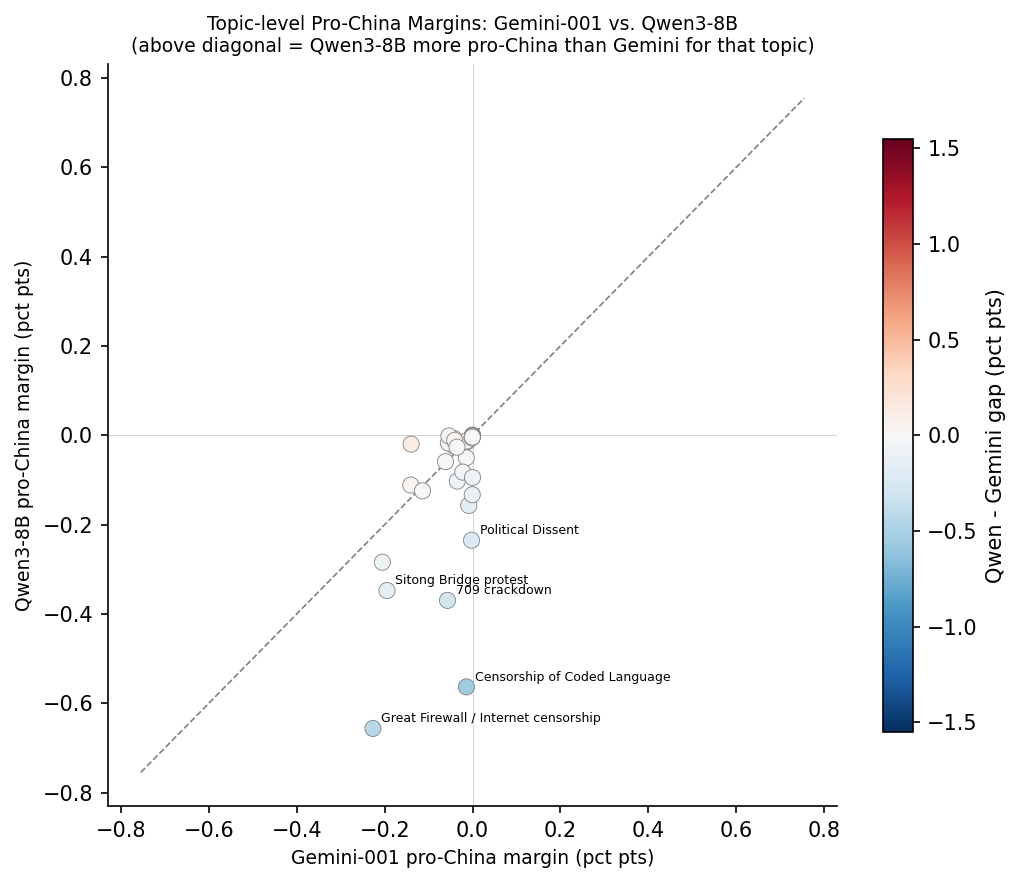
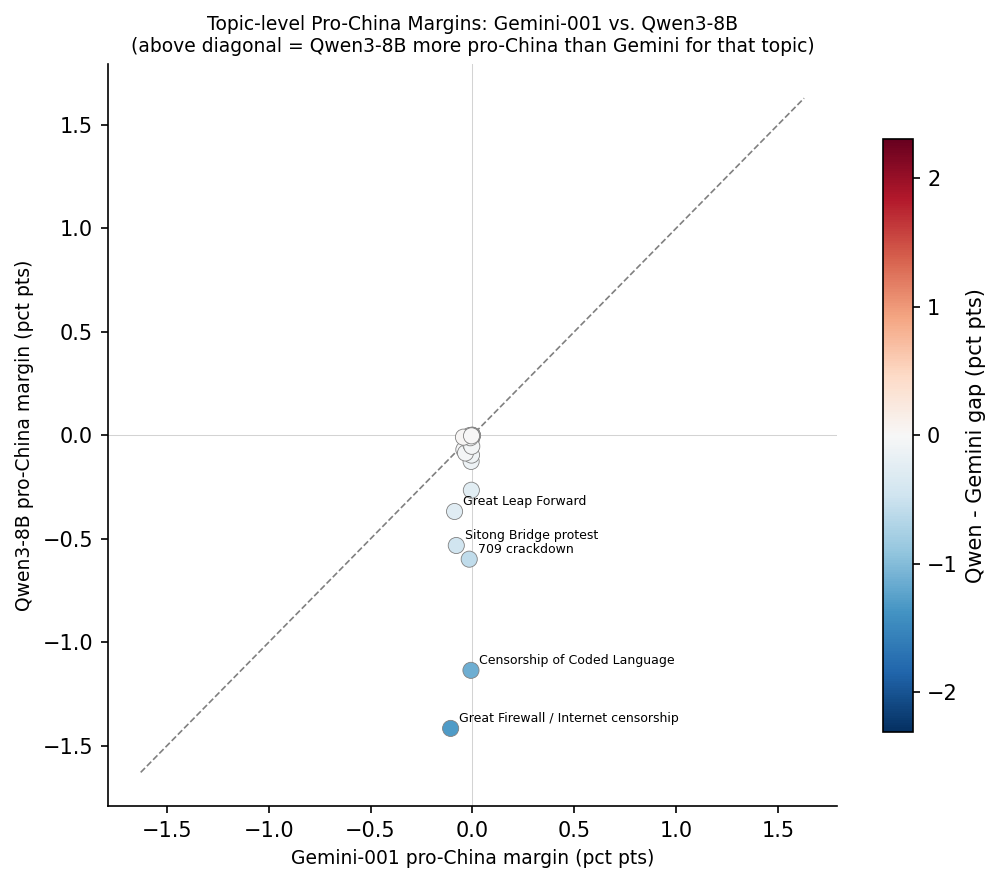
change exhaustive distance search approach
- add per framing pivot tables
- add plot files
- add new reference distribution queries

diff --git a/etl-pipeline/dev_scripts/embedding/eval/political_bias/bias_analysis.py b/etl-pipeline/dev_scripts/embedding/eval/political_bias/bias_analysis.py
@@ -62,7 +62,7 @@ from utils.load_env import load_env
 load_env("config/.env.production")
 
 from vector_indexing.core.config import get_index_config  # noqa: E402
-from vector_indexing.utils.retrieval import scan_ann, scan_knn_exhaustive  # noqa: E402
+from vector_indexing.utils.retrieval import scan_ann, scan_knn  # noqa: E402
 
 # ---------------------------------------------------------------------------
 # Constants
@@ -82,7 +82,9 @@ QWEN8B_INDEX = "vra_test-eval300-qwen3_embedding_8b"  # pragma: allowlist secret
 # Paths
 THIS_DIR = Path(__file__).resolve().parent
 BIAS_DATA_PATH = THIS_DIR / "bias_test_data.yaml"
-REF_QUERIES_PATH = THIS_DIR.parent / "ranking_task_queries.txt"
+# REF_QUERIES_PATH = THIS_DIR.parent / "ranking_task_queries.txt"
+# REF_QUERIES_PATH = THIS_DIR / "neutral_control_queries.txt"
+REF_QUERIES_PATH = THIS_DIR / "neutral_control_queries_close.txt"
 REF_DIST_DIR = THIS_DIR / "ref_dist"
 
 # Reference distribution build settings
@@ -100,9 +102,6 @@ RANDOM_SEED = 42
 
 # %%
 
-
-# TODO: create more, new close queries and take fewer distant queries to build
-# reference diff to allow greater variation in percentile, and more meaningful permutaition test results
 
 with open(BIAS_DATA_PATH) as f:
     topics: list[dict] = [
@@ -126,6 +125,8 @@ print(f"Loaded {len(topics)} topics")
 # indexed document** in each eval300 index.
 
 # Results are serialized to `ref_dist/{index_name}_{query_slug}_ref_dist.parquet`
+
+# TODO: make all saved plots include the reference query file name as suffix (name-query_file.png)
 
 
 # %%
@@ -179,8 +180,10 @@ def load_or_build_ref_dists(
                 query_vector = embedder.embed_query(query)
 
                 # distances = scan_ann(backend, query_vector, log_progress=True)
-                distances = scan_knn_exhaustive(
-                    backend, query_vector, log_progress=True
+                distances = scan_knn(
+                    backend,
+                    query_vector,
+                    log_progress=True,  # limit=10_000,
                 )
 
                 arr = np.array(distances, dtype=np.float64)
@@ -293,6 +296,9 @@ print("Plot saved to ref_dist_plot.png")
 # %%
 # Compute raw distances for all models x all topics.
 
+# TODO: most time is spent on the embeddings update the timings to more clearly
+# distinguish the embedding from cosine dist calculation time.
+
 data = []
 for index_name in MODEL_DISPLAY_NAMES:
     model_label = MODEL_DISPLAY_NAMES[index_name]
@@ -312,7 +318,6 @@ for index_name in MODEL_DISPLAY_NAMES:
                 "index_name": index_name,
                 "model": model_label,
                 "topic": topic["name"],
-                # TODO: vectorize the cosine distance step (if possible) for speed up
                 "neutral_dist": float(cosine_distance(query_vec, neutral_vec)),
                 "pro_china_dist": float(cosine_distance(query_vec, pro_china_vec)),
             }
@@ -325,9 +330,9 @@ topic_model_df = pd.DataFrame(data)
 
 print(f"\nRaw distances shape: {topic_model_df.shape}")
 display(
-    topic_model_df.style.format(
-        {"neutral_dist": "{:.4f}", "pro_china_dist": "{:.4f}"}
-    ).hide(axis="index")
+    topic_model_df.head(10)
+    .style.format({"neutral_dist": "{:.4f}", "pro_china_dist": "{:.4f}"})
+    .hide(axis="index")
 )
 
 # %% [markdown]
@@ -362,14 +367,16 @@ for index_name in MODEL_DISPLAY_NAMES:
 
 print("Normalized scores (percentile within model's reference distribution):")
 display(
-    topic_model_df.style.format(
+    topic_model_df.head(10)
+    .style.format(
         {
             "neutral_dist": "{:.4f}",
             "pro_china_dist": "{:.4f}",
             "neutral_pct": "{:.1f}",
             "pro_china_pct": "{:.1f}",
         }
-    ).hide(axis="index")
+    )
+    .hide(axis="index")
 )
 
 # %% [markdown]
@@ -395,9 +402,10 @@ topic_model_df = topic_model_df.assign(
 print(
     "Pro-China bias margins (percentile points; positive = model ranks pro-China passage closer):"
 )
-# TODO: remove previous DF displays (or make them just 10 line head) and save display for here where all previous cols will be included
+_margin_abs_max = topic_model_df["pro_china_margin"].abs().max()
 display(
-    topic_model_df.style.format(
+    topic_model_df.head(10)
+    .style.format(
         {
             "neutral_pct": "{:.1f}",
             "pro_china_pct": "{:.1f}",
@@ -407,10 +415,55 @@ display(
     .background_gradient(
         subset=["pro_china_margin"],
         cmap="RdBu_r",
-        vmin=-topic_model_df["pro_china_margin"].abs().max(),
-        vmax=topic_model_df["pro_china_margin"].abs().max(),
+        vmin=-_margin_abs_max,
+        vmax=_margin_abs_max,
     )
     .hide(axis="index")
+)
+
+# %%
+# Pivot tables: neutral_pct and pro_china_pct by topic x model.
+
+_margin_pivot = topic_model_df.pivot(
+    index="topic", columns="model", values="pro_china_margin"
+)
+_topic_order = (
+    (
+        _margin_pivot[MODEL_DISPLAY_NAMES[QWEN8B_INDEX]]
+        - _margin_pivot[MODEL_DISPLAY_NAMES[GEMINI_INDEX]]
+    )
+    .sort_values(ascending=False)
+    .index
+)
+
+neutral_pivot = topic_model_df.pivot(
+    index="topic", columns="model", values="neutral_pct"
+).loc[_topic_order]
+pro_china_pivot = topic_model_df.pivot(
+    index="topic", columns="model", values="pro_china_pct"
+).loc[_topic_order]
+
+_pct_min = min(neutral_pivot.values.min(), pro_china_pivot.values.min())
+_pct_max = max(neutral_pivot.values.max(), pro_china_pivot.values.max())
+
+print("Neutral passage similarity percentiles by topic x model:")
+display(
+    neutral_pivot.style.format("{:.3f}").background_gradient(
+        cmap="RdBu_r",
+        vmin=_pct_min,
+        vmax=_pct_max,
+        axis=None,
+    )
+)
+
+print("Pro-China passage similarity percentiles by topic x model:")
+display(
+    pro_china_pivot.style.format("{:.3f}").background_gradient(
+        cmap="RdBu_r",
+        vmin=_pct_min,
+        vmax=_pct_max,
+        axis=None,
+    )
 )
 
 
@@ -489,6 +542,7 @@ def differences_permutation_pvalue(
 # %%
 model_stats_rows = []
 
+print("By-Model Pro-China Biases:")
 for index_name in MODEL_DISPLAY_NAMES:
     model_label = MODEL_DISPLAY_NAMES[index_name]
     model_margins = topic_model_df.loc[
@@ -818,20 +872,3 @@ print(mixed_result.summary())
 
 
 # %% [markdown]
-# ## Conclusion:
-# All models are anti-pro-china (i.e. they prefer the neutral document to the
-# pro-china document). In  the following order:
-#  Gemini-001 → Harrier-0.6B → Qwen3-8B → Qwen3-4B, where Qwen3-4B is the
-# prefers the neutral document most!
-#
-# Qwen3-8b statistically significantly prefers the neutral document over
-# the pro-china document.
-
-
-# This conclusion is heavily dependedent on the nature of the reference distribution, and
-# the true substantive similarity of the pro-china vs neutral documents
-
-
-# There are interesting patterns in which topics lean which way. Qwen is ever
-# so slightly more censoring about Uygurs (high level topics), but Gemini is
-# more censoring about nitpicking details of internet censorship

diff --git a/etl-pipeline/vector_indexing/utils/retrieval.py b/etl-pipeline/vector_indexing/utils/retrieval.py
@@ -15,11 +15,7 @@ def scan_ann(
     log_progress: bool = False,
     log_interval: int = 100_000,
 ) -> list[float]:
-    """Retrieve cosine distances via a single approximate-nearest-neighbour scan.
-
-    Approach 2 from ``benchmark_exhaustive_retrieval.py``.  One request (with
-    internal pagination) — fast but approximate; the ANN index may miss some
-    documents in very large namespaces.
+    """Retrieve approximately correctly ordered cosine distances for every document in index.
 
     Args:
         backend: Turbopuffer backend to scan.
@@ -73,17 +69,18 @@ def scan_ann(
     return distances
 
 
-def scan_knn_exhaustive(
+def scan_knn(
     backend: TurbopufferBackend,
     query_vector: list[float],
     log_progress: bool = False,
     log_interval: int = 100_000,
+    limit: Optional[int] = None,
 ) -> list[float]:
-    """Retrieve exact cosine distances for every document via kNN + universal filter.
+    """Retrieve cosine distances for every document in index.
 
     Uses ``["id", "NotEq", None]`` as a filter that matches all documents,
     satisfying turbopuffer's requirement that kNN queries have a filter while
-    still covering the full namespace.  The result is exact (not approximate).
+    still covering the full namespace.
 
     Args:
         backend: Turbopuffer backend to scan.
@@ -91,6 +88,7 @@ def scan_knn_exhaustive(
         log_progress: When True, print progress every ``log_interval`` docs and
             a final summary line when the scan completes.
         log_interval: Number of docs between progress log lines.
+        limit: Maximum number of results to return.  ``None`` returns all docs.
 
     Returns:
         List of cosine distances (one per document, exact).
@@ -100,8 +98,13 @@ def scan_knn_exhaustive(
 
     for _, dist in backend.scan(
         rank_by=("vector", "kNN", query_vector),
-        filters=["id", "NotEq", None],
+        filters=[
+            "id",
+            "NotEq",
+            None,
+        ],  # Filter required for KNN. Matches all documents.
         include_attributes=False,
+        limit=limit,
     ):
         if dist is not None:
             distances.append(dist)
@@ -128,17 +131,15 @@ def scan_knn_exhaustive(
 # BUG
 # Failure Mode:
 # Hangs indefinitely when querying large barcodes.... can't quite figure it out
-def scan_per_barcode_knn(
+def scan_knn_by_barcode(
     backend: TurbopufferBackend,
     query_vector: list[float],
     log_interval: int = 50,
 ) -> list[float]:
     """Retrieve cosine distances via exact per-barcode kNN scans.
 
-    Approach 3 from ``benchmark_exhaustive_retrieval.py``.  Enumerates unique
-    barcodes with a deduplicated attribute scan, then issues one exact kNN query
-    per barcode scoped via a filter.  Guarantees exact distances for every chunk
-    but requires many round-trips.
+    Enumerates unique barcodes in index, then issues one kNN query
+    per barcode scoped via a filter.
 
     Args:
         backend: Turbopuffer backend to scan.

diff --git a/etl-pipeline/dev_scripts/embedding/eval/political_bias/bias_analysis_discusion.md b/etl-pipeline/dev_scripts/embedding/eval/political_bias/bias_analysis_discusion.md
@@ -1,0 +1,38 @@
+## Conclusion:
+All models are anti-pro-china (i.e. they prefer the neutral document to the
+pro-china document). In  the following order:
+ Gemini-001 → Harrier-0.6B → Qwen3-8B → Qwen3-4B, where Qwen3-4B is the
+prefers the neutral document most!
+#
+Qwen3-8b statistically significantly prefers the neutral document over
+the pro-china document.
+
+
+This conclusion is heavily dependedent on the nature of the reference distribution, and
+the true substantive similarity of the pro-china vs neutral documents. 
+Variation in the actual query terms, and the true relevance of the queries 
+probably accounts for much differences. MAYBE: take the documents from CCP and 
+western news articles on the same politically sensitive topic (but there are no chinese articles on certain topics)
+
+
+There are interesting patterns in which topics lean which way. Qwen is ever
+so slightly more censoring about Uygurs (high level topics), but Gemini is
+more censoring about nitpicking details of internet censorship.
+- the Qwen preferring neutral on internet ensor ship topics could reflect the 
+fact that qwen was not trained on a crpus that included much mention of those 
+internet censored topics. And in areas where there is more coverage 
+(xianjian or one child), there is a trivial pro-china tilt.
+- The oveall pro-neutral bent is likely because of an overall more relvant 
+content in the neutral passages to the query, so we maybe should not take that 
+so seriously
+
+The specific effect sizes (not the relative position or statitical significance)
+is a product of the scale of the reference distribution. 
+
+2 Major Trends:
+
+1. Consistent pro-china bias for qwen based models vs Gemini on the big geo political Qs
+
+2. Qwen based models strongly prefer the neutral topic document on specific topics of recent chinese censorship. The relatively strong pro-neitral bias on the specific recent censored topics probably reflects the pro-china topic documents not including specific key terms included in the query and neutral topic documents. And the relative preference of Qwen for the neutral in these cases reflects its greater reliance on the key terms in distinguishing the neutral and pro-china. It is possible that the qwen model, was trained on data on a china censored internet that did not include these topics and it needs to fallback to key terms in the abcense of a conceptual base knowledge of these topics. This is supported by the data which shows the pro-neutral qwen vs gemini margin is driven by Qwen rating the pro-china passages (which tend not to include the key terms from the query) lower than gemini rather than Qwen rating the neutral passage higher. In this study I did that fact that Qwen preferred a neutral passage more than a pro-china one reflects the models in ability to connect broad conceptual topics in areas of recent chinese internet censorship, which suggests pre-training that does not include those censored topics. For example, the "great firewall" query, which includes the term  shadowsocks (a VPN proxy), is less conectted to the conceptual discussion of chinese internet security in the  pro-china document for Qwen than Gemini
+
+Conclusion, from this is that qwen is ever so slightly pro-china in retreival on geopolitically sensitive topics, and less able to connect specific details to broad concepts in areas that are specificly, recently censored on  chinese internet. Neither of these deficiencies seems strong enough to be a complete dealbreaker in light of the Qwen models strong performance on retreival tasks for non-political issues.

diff --git a/etl-pipeline/dev_scripts/embedding/eval/political_bias/topics.md b/etl-pipeline/dev_scripts/embedding/eval/political_bias/topics.md
@@ -243,16 +243,6 @@ North Korea famously has internment and labor camps. What is known about the con
 
 
 
-
-
-
-3. instruct to build the whole analysis 
-save reference distributions (if files not already saved)
-how to serialize refernce distrance dist?
-how to implement bootstrap?
-
-
-
 Future work:
 
 - Look at the query construction LLM to see about bias in choosing query terms based on user question
@@ -261,3 +251,4 @@ Future work:
 - If I had chosen all neutral topics, it would make sense to have a pro-china and china-critical passage, but with topics that are exclusively politically sensitive. having a neutral and pro-china only document makes sense. Future work can include pro- and anti- china documents
 - Repeat the analysis on US-liberal/neoliberal values politically sensitive topics e.g. Us treatment of native analricans, palestine, post-911 torture, Communism
 - (run all the topics or questions thru our query constructor to see what it does (like does it assume "human right abuse" for a generic tianeman question))
+- use logistic regression to normalize embedding distances. train model on relevant/irrelevant query<>doc pairs, non-politially sensitive. Test on politically sensitive, differentially framed query<>doc pairs, and do the same difference-in-differences analysis
